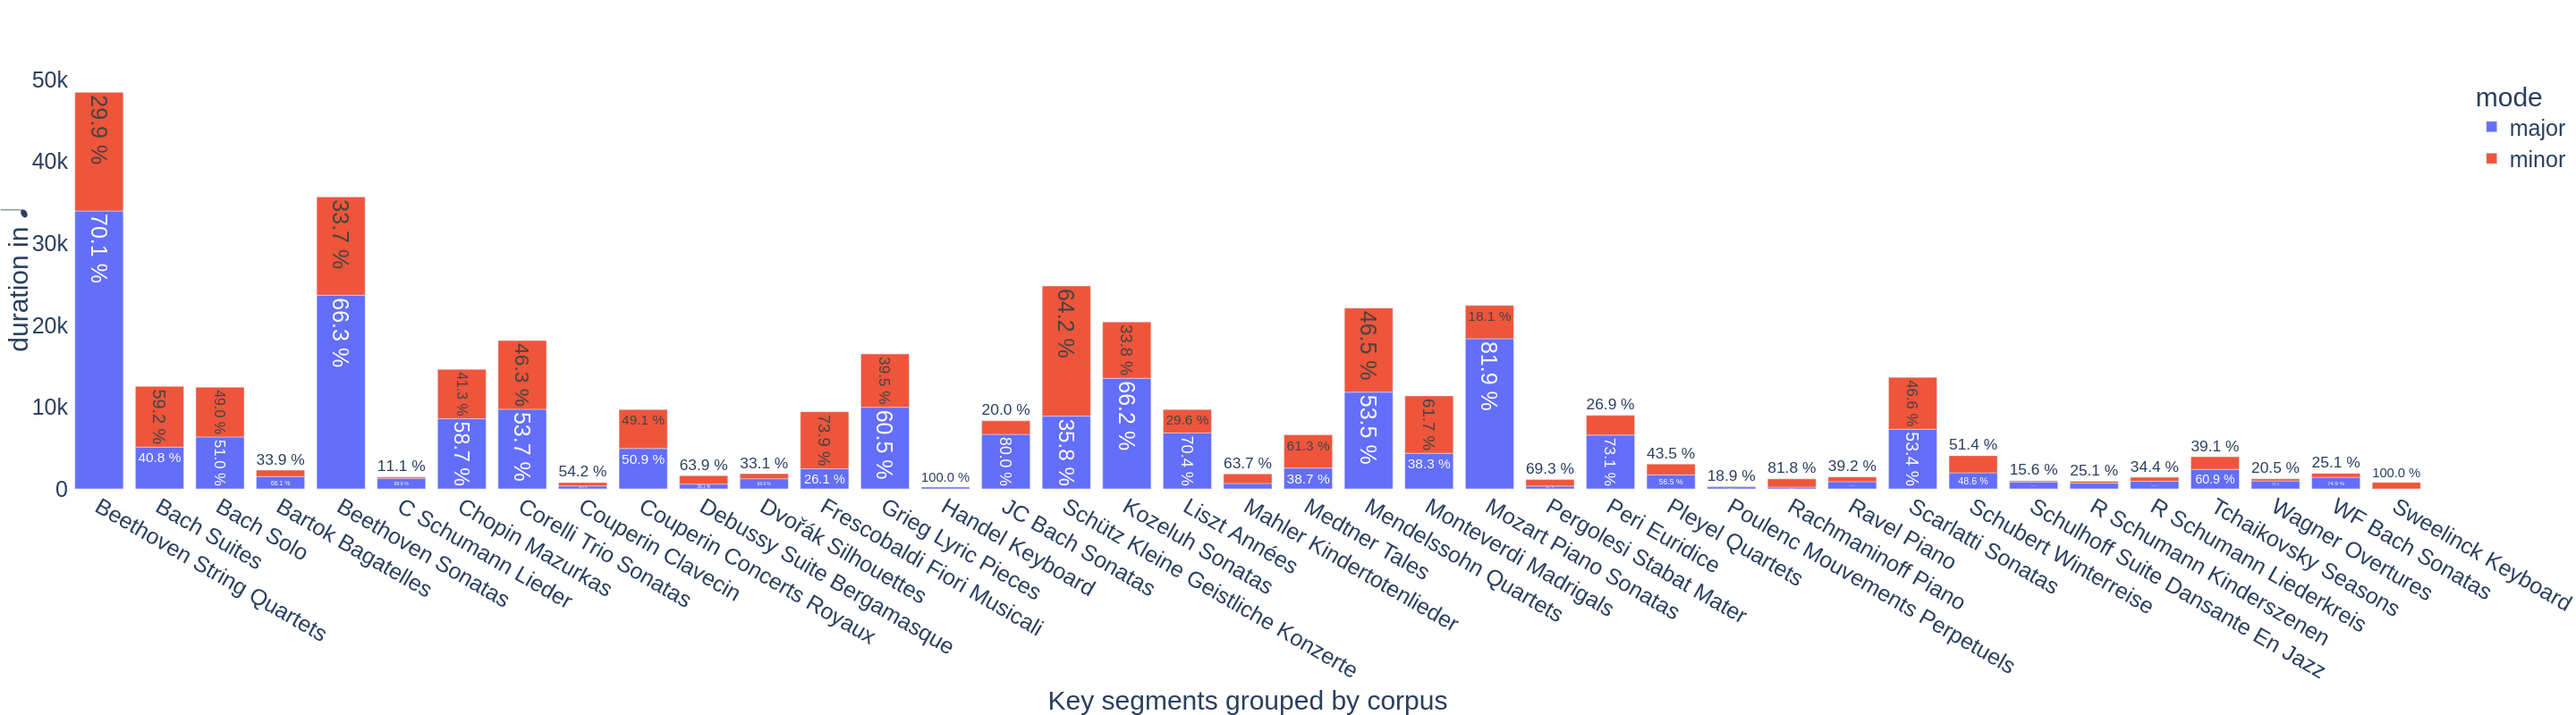
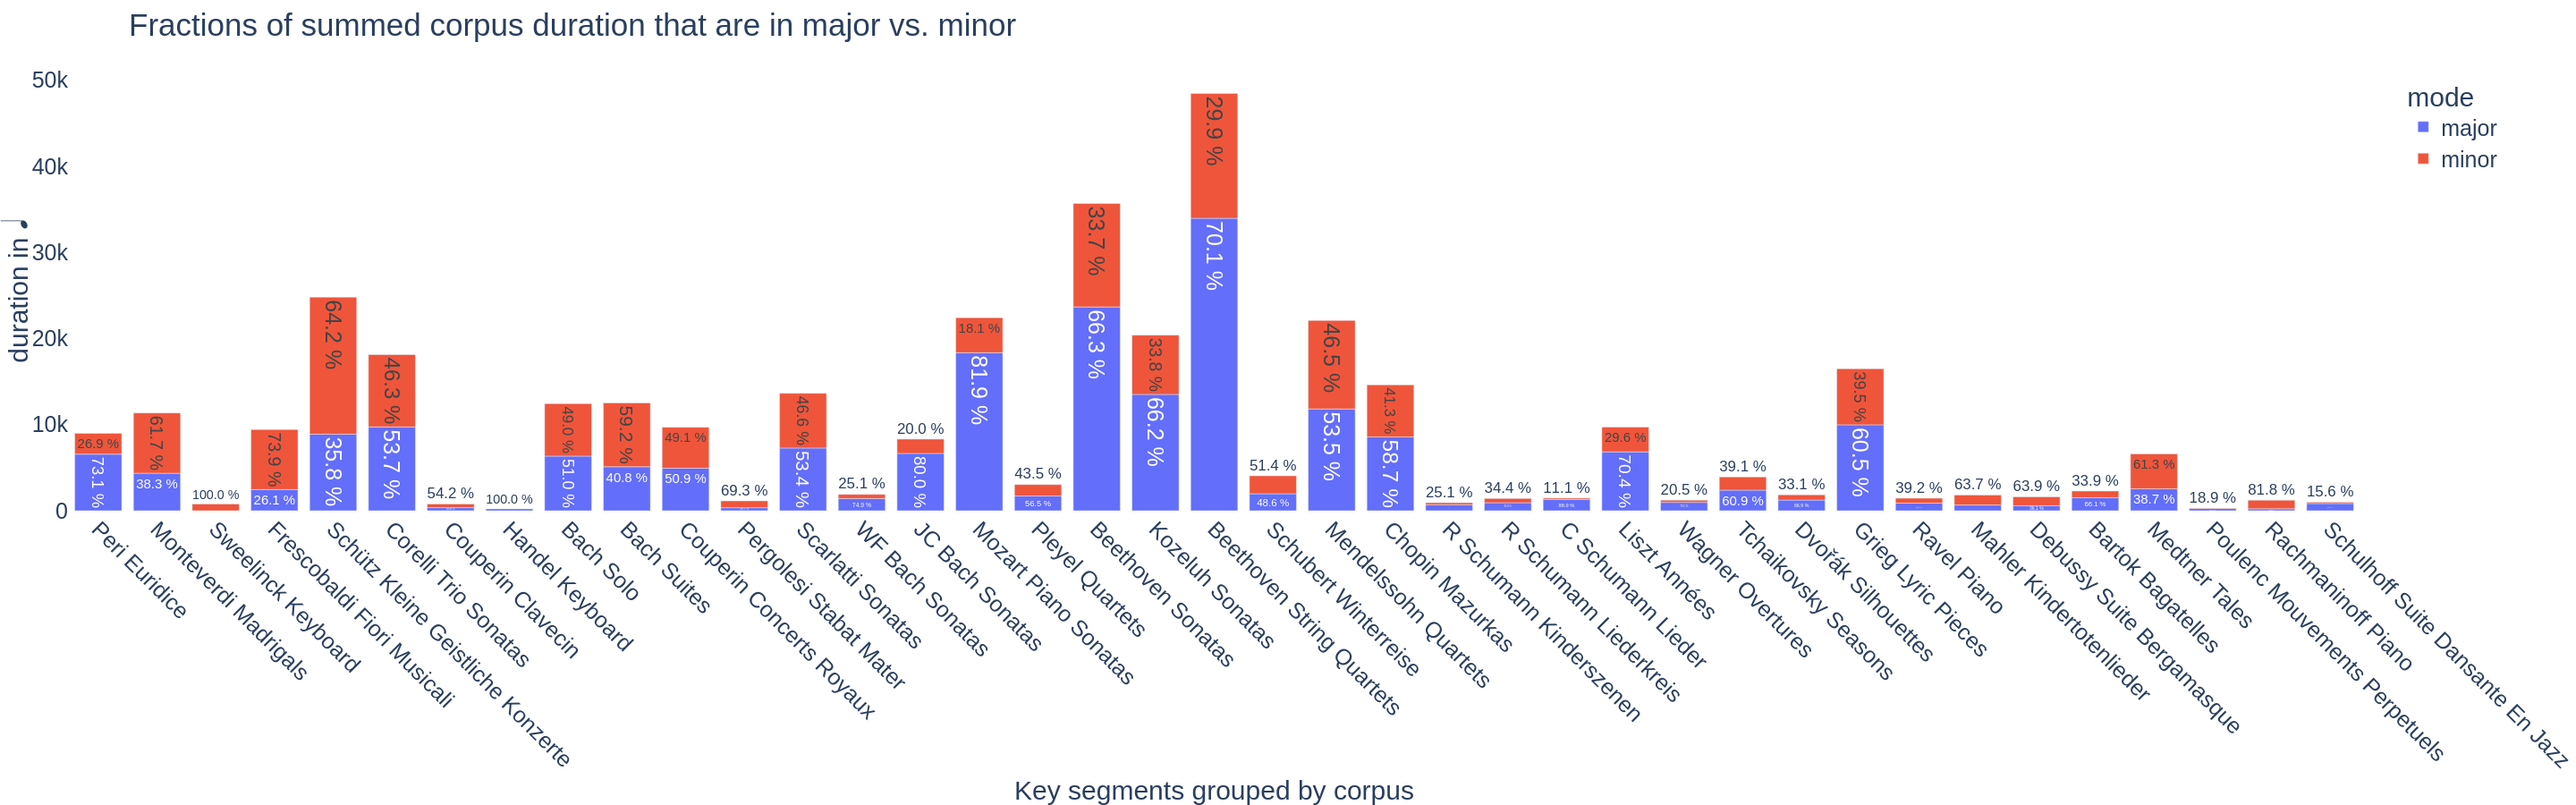
tweaks keys plots; changes default background to transparent

diff --git a/utils.py b/utils.py
@@ -31,12 +31,12 @@ COLOR_SCALE_SETTINGS = dict(
     color_continuous_scale="RdBu_r", color_continuous_midpoint=2
 )
 TPC_DISCRETE_COLOR_MAP = dict(zip(range(-15, 20), sample_colorscale("RdBu_r", 35)))
-STD_LAYOUT = {
-    "paper_bgcolor": "#FFFFFF",
-    "plot_bgcolor": "#FFFFFF",
-    "margin": {"l": 40, "r": 0, "b": 0, "t": 80, "pad": 0},
-    "font": {"size": 25},
-}
+STD_LAYOUT = dict(
+    paper_bgcolor="rgba(0,0,0,0)",
+    plot_bgcolor="rgba(0,0,0,0)",
+    margin={"l": 40, "r": 0, "b": 0, "t": 80, "pad": 0},
+    font={"size": 25},
+)
 
 CADENCE_COLORS = dict(
     zip(("HC", "PAC", "PC", "IAC", "DC", "EC"), colorlover.scales["6"]["qual"]["Set1"])

diff --git a/keys.md b/keys.md
@@ -152,16 +152,19 @@ maj_min_ratio_per_dataset
 ```
 
 ```{code-cell}
-fig = px.bar(maj_min_ratio_per_dataset.reset_index(),
-       x="corpus_name",
-       y="duration_qb",
-       color="mode",
-       text='fraction',
-       labels=dict(dataset='', duration_qb="duration in 𝅘𝅥", corpus_name='Key segments grouped by corpus'),
-       category_orders=dict(dataset=chronological_order)
+fig = px.bar(
+    maj_min_ratio_per_dataset.reset_index(),
+    x="corpus_name",
+    y="duration_qb",
+    title="Fractions of summed corpus duration that are in major vs. minor",
+    color="mode",
+    text='fraction',
+    labels=dict(duration_qb="duration in 𝅘𝅥", corpus_name='Key segments grouped by corpus'),
+    category_orders=dict(corpus_name=chronological_corpus_names)
     )
 fig.update_layout(**STD_LAYOUT)
-save_figure_as(fig, 'major_minor_key_segments_corpuswise_absolute_stacked_bars', height=800)
+fig.update_xaxes(tickangle=45)
+save_figure_as(fig, 'major_minor_key_segments_corpuswise_absolute_stacked_bars', height=900)
 fig.show()
 ```
 
@@ -220,18 +223,25 @@ legend=dict(
     xanchor="right",
     x=0.99
 )
-fig = px.bar(mode_tpcs,
-       x='tpc',
-       y='duration_pct',
-       color='mode',
-       barmode='group',
-       labels=dict(duration_pct='normalized duration',
-                   tpc="Notes transposed to the local key, as major-scale degrees",
-                  ),
-       #log_y=True,
-       #category_orders=dict(sd=sd_order)
-      )
-fig.update_layout(**STD_LAYOUT, xaxis=xaxis, legend=legend)
+fig = px.bar(
+    mode_tpcs,
+    x='tpc',
+    y='duration_pct',
+    title="Scale degree distribution over major and minor segments",
+    color='mode',
+    barmode='group',
+    labels=dict(
+        duration_pct='normalized duration',
+        tpc="Notes transposed to the local key, as major-scale degrees",
+        ),
+    #log_y=True,
+    #category_orders=dict(sd=sd_order)
+    )
+fig.update_layout(
+    **STD_LAYOUT,
+    xaxis=xaxis,
+    legend=legend,
+)
 save_figure_as(fig, 'scale_degree_distribution_maj_min_normalized_grouped_bars', height=600)
 fig.show()
 ```
